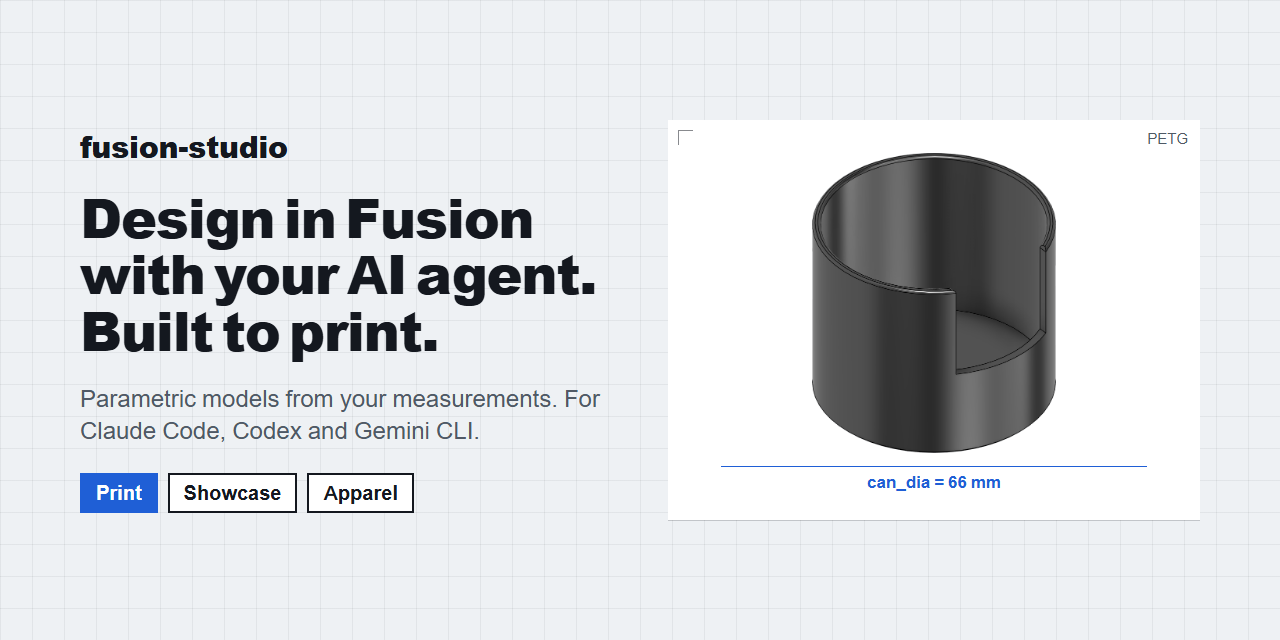
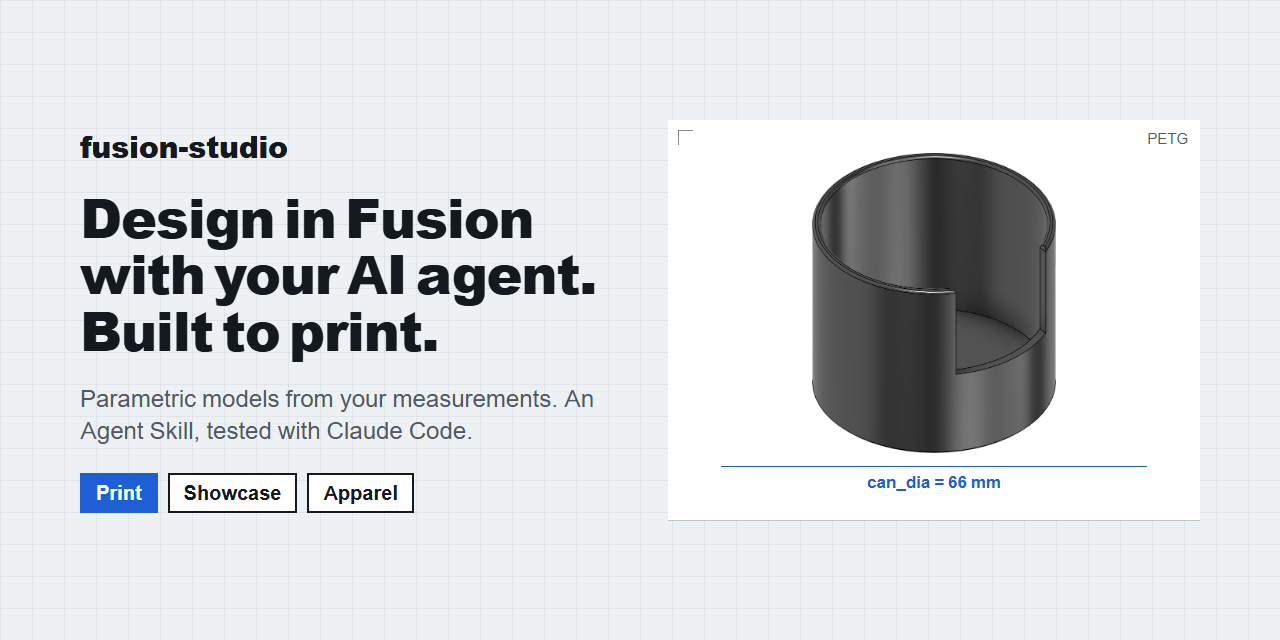
Add community files, copy pass and examples

Changed region(s): [[0.0625, 0.6562, 0.375, 0.6875], [0.4375, 0.5938, 0.4688, 0.6562]]

diff --git a/tools/make_social_card.py b/tools/make_social_card.py
@@ -62,7 +62,7 @@ p{{margin:22px 0 0;color:#4f5966;font-size:24px;line-height:1.35}}
 </style><body><div class="safe"><div>
 <div class="name">fusion-studio</div>
 <h1>Design in Fusion with your AI agent. Built to print.</h1>
-<p>Parametric models from your measurements. For Claude Code, Codex and Gemini CLI.</p>
+<p>Parametric models from your measurements. An Agent Skill, tested with Claude Code.</p>
 <div class="chips">{chips}</div></div>
 <div class="tile"><img src="{model_uri()}"><span class="tag">PETG</span><div class="dim">can_dia = 66 mm</div></div></div></body>"""
 

diff --git a/README.md b/README.md
@@ -2,8 +2,8 @@
 
 [![Smoke test](https://github.com/shadowtor/Fusion360Printing/actions/workflows/test.yml/badge.svg)](https://github.com/shadowtor/Fusion360Printing/actions/workflows/test.yml) [![License: MIT](https://img.shields.io/badge/license-MIT-blue.svg)](LICENSE)
 
-**An Agent Skill for designing 3D models in Autodesk Fusion with your AI agent** (Claude Code, Codex CLI, Gemini CLI and anything that
-reads Agent Skills folders). It drives Fusion through its local MCP server: you bring measurements and photos, it builds a parametric
+**An Agent Skill for designing 3D models in Autodesk Fusion with your AI agent** (tested with Claude Code; the installer also targets Codex CLI
+and Gemini CLI, and any agent that reads Agent Skills folders). It drives Fusion through its local MCP server: you bring measurements and photos, it builds a parametric
 model, looks at its own screenshots, checks the result and exports it. It asks first whether the project is something you will
 **print**, a **showcase** piece, or an **apparel** mockup, because that changes how the model is built.
 
@@ -13,7 +13,7 @@ model, looks at its own screenshots, checks the result and exports it. It asks f
 
 **Website:** [shadowtor.github.io/Fusion360Printing](https://shadowtor.github.io/Fusion360Printing/)
 
-**Contents:** [Modes](#the-three-modes) · [What it does](#what-it-does) · [Install](#install) · [Use](#use) · [Example](#example) · [Limits](#what-it-will-not-do) · [Develop](#develop) · [Credits](#credits)
+**Contents:** [Modes](#the-three-modes) · [What it does](#what-it-does) · [Install](#install) · [Use](#use) · [Example](#example) · [Limits](#what-it-will-not-do) · [Develop](#develop) · [Help](#help-and-status) · [Credits](#credits)
 
 ## The three modes
 
@@ -121,6 +121,10 @@ python tools/make_social_card.py    # site/social-card.png
 ```
 
 See [`CONTRIBUTING.md`](CONTRIBUTING.md) and [`docs/architecture.md`](docs/architecture.md).
+
+## Help and status
+
+Questions and bugs go in [issues](https://github.com/shadowtor/Fusion360Printing/issues). This is a one-person project in active use, so expect a reply within a week or so, not a day. Security problems: see [`SECURITY.md`](SECURITY.md). Contributions: [`CONTRIBUTING.md`](CONTRIBUTING.md). Everyone taking part follows the [code of conduct](CODE_OF_CONDUCT.md).
 
 ## Credits
 

diff --git a/CODE_OF_CONDUCT.md b/CODE_OF_CONDUCT.md
@@ -1,0 +1,21 @@
+# Code of conduct
+
+This project follows the [Contributor Covenant 2.1](https://www.contributor-covenant.org/version/2/1/code_of_conduct/), adapted below. It applies in issues, pull requests, discussions and any other space where the project is represented.
+
+## Expected
+
+- Be kind and assume good faith.
+- Give and accept feedback on the work, not the person.
+- Say plainly when you do not know something.
+
+## Not accepted
+
+- Harassment, insults, or discriminatory language.
+- Sharing someone's private information.
+- Spam or repeated off-topic posts.
+
+## Enforcement
+
+Report a problem by opening a private security advisory titled "Conduct report" (Security tab, then **Report a vulnerability**), or by contacting the maintainer, [@shadowtor](https://github.com/shadowtor), through GitHub. Reports are read by the maintainer only and handled privately. Responses can include a warning, deleting comments, or blocking a user from the repository.
+
+Adapted from the Contributor Covenant, version 2.1, licensed [CC BY 4.0](https://creativecommons.org/licenses/by/4.0/).

diff --git a/CONTRIBUTING.md b/CONTRIBUTING.md
@@ -5,6 +5,8 @@ Issues and pull requests are welcome.
 - **Reporting a problem:** include your Fusion version (`fusion_mcp.py ping` prints it), the script that failed and the error text.
 - **Adding to the API notes:** only add what you ran. Mark anything unrun with **check**.
 - **Adding a mode or a reference:** keep `SKILL.md` short and put detail in `skills/fusion-studio/references/`.
-- **Before a pull request:** run `python tools/smoke_test.py`. With Fusion open it also rebuilds the example in a new document.
+- **Before a pull request:** run `python tools/smoke_test.py`. With Fusion open it also rebuilds both examples in new documents.
 - **Copy:** public pages and docs should read like a person wrote them. Run the slopmonster check if you have it.
+- Open an issue before a large change so we agree on the direction first. Replies take about a week.
+- Everyone taking part follows the [code of conduct](CODE_OF_CONDUCT.md). Security problems go through [`SECURITY.md`](SECURITY.md), not a public issue.
 - Do not commit generated zips, secrets or customer models.

diff --git a/SECURITY.md b/SECURITY.md
@@ -1,0 +1,15 @@
+# Security
+
+## What counts
+
+The skill runs Python inside your own Fusion session through its local MCP server. A vulnerability here is anything that lets the skill's scripts do more than the user asked: writing outside the project folder, sending data off the machine, saving or closing a document unprompted, or running code from untrusted input.
+
+## Reporting
+
+Use GitHub's private vulnerability reporting: **Security** tab, then **Report a vulnerability**. Please do not open a public issue for a security problem.
+
+I aim to reply within 7 days and to fix confirmed issues in the next release. This is a one-person project, so those are goals and not guarantees.
+
+## Supported versions
+
+Only the latest release on `main`.

diff --git a/.github/ISSUE_TEMPLATE/bug_report.md b/.github/ISSUE_TEMPLATE/bug_report.md
@@ -1,0 +1,15 @@
+---
+name: Bug report
+about: Something in the skill, a script or an example does not work
+labels: bug
+---
+
+**Fusion version** (`python skills/fusion-studio/scripts/fusion_mcp.py ping` prints it):
+
+**Agent and version** (Claude Code, Codex CLI, other):
+
+**What you asked for or ran:**
+
+**What happened** (paste the error text, and the line number if there is one):
+
+**What you expected:**

diff --git a/.github/PULL_REQUEST_TEMPLATE.md b/.github/PULL_REQUEST_TEMPLATE.md
@@ -1,0 +1,9 @@
+## What changed and why
+
+Link the issue if there is one.
+
+## Checks
+
+- [ ] `python tools/smoke_test.py` passes (it rebuilds the examples if Fusion is open)
+- [ ] Anything I ran against Fusion is marked as run in the docs; anything I did not run is marked **check**
+- [ ] Docs and examples updated if behaviour changed

diff --git a/.github/ISSUE_TEMPLATE/feature_request.md b/.github/ISSUE_TEMPLATE/feature_request.md
@@ -1,0 +1,11 @@
+---
+name: Feature request
+about: A mode, helper or reference you would like added
+labels: enhancement
+---
+
+**What you want to make or do in Fusion:**
+
+**What the skill does today for that:**
+
+**What would help** (a helper in `fx_lib.py`, a reference page, a new mode):
